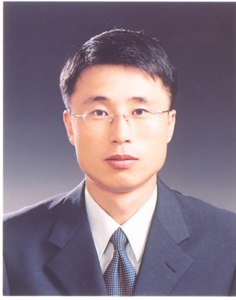
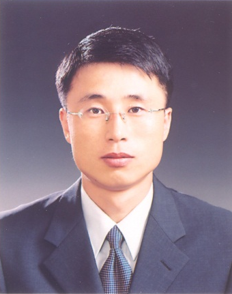
[restoration] image

diff --git a/data/people.ts b/data/people.ts
@@ -4,7 +4,7 @@ export const peopleData: Person[] = [
   {
     "name": "Prof. Jong-Eun Ha (하종은)",
     "role": "Principal Investigator",
-    "img": "/assets/images/members/Prof_re.png",
+    "img": "/assets/images/members/Prof_ori.png",
     "bio": "Professor at SeoulTech | Computer Vision, Deep Learning, Robotics",
     "email": "jeha@seoultech.ac.kr",
     "category": "Professor",
